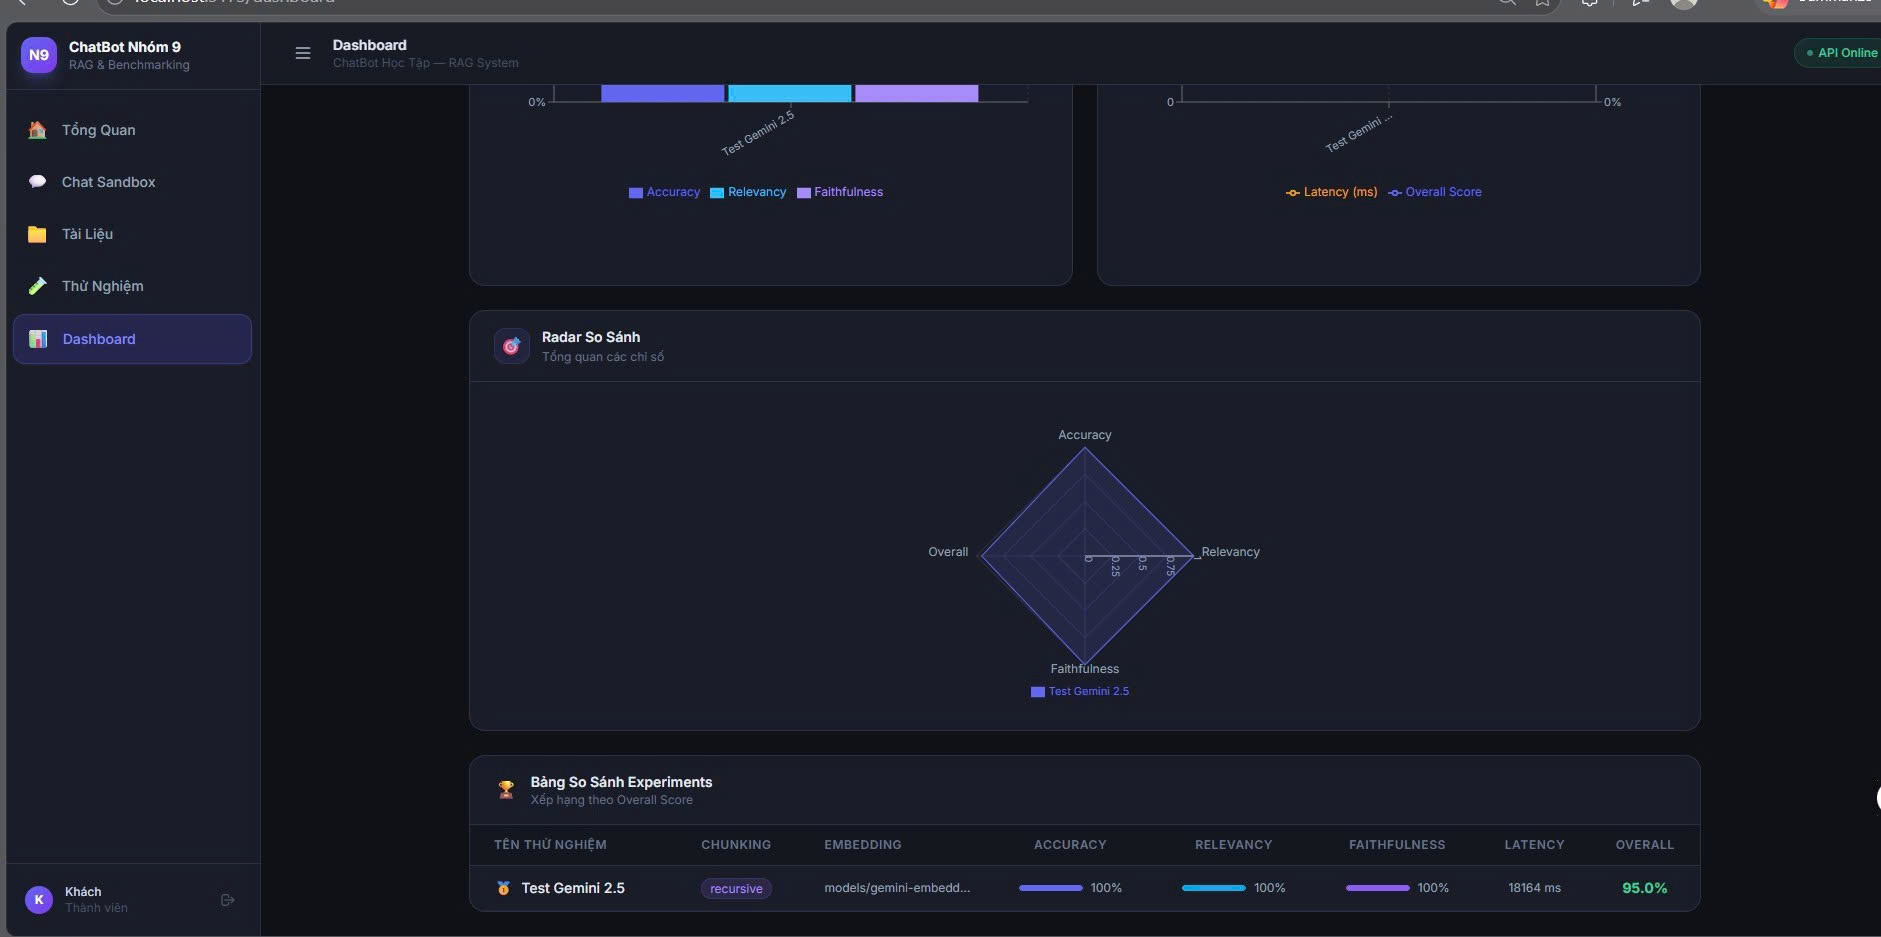
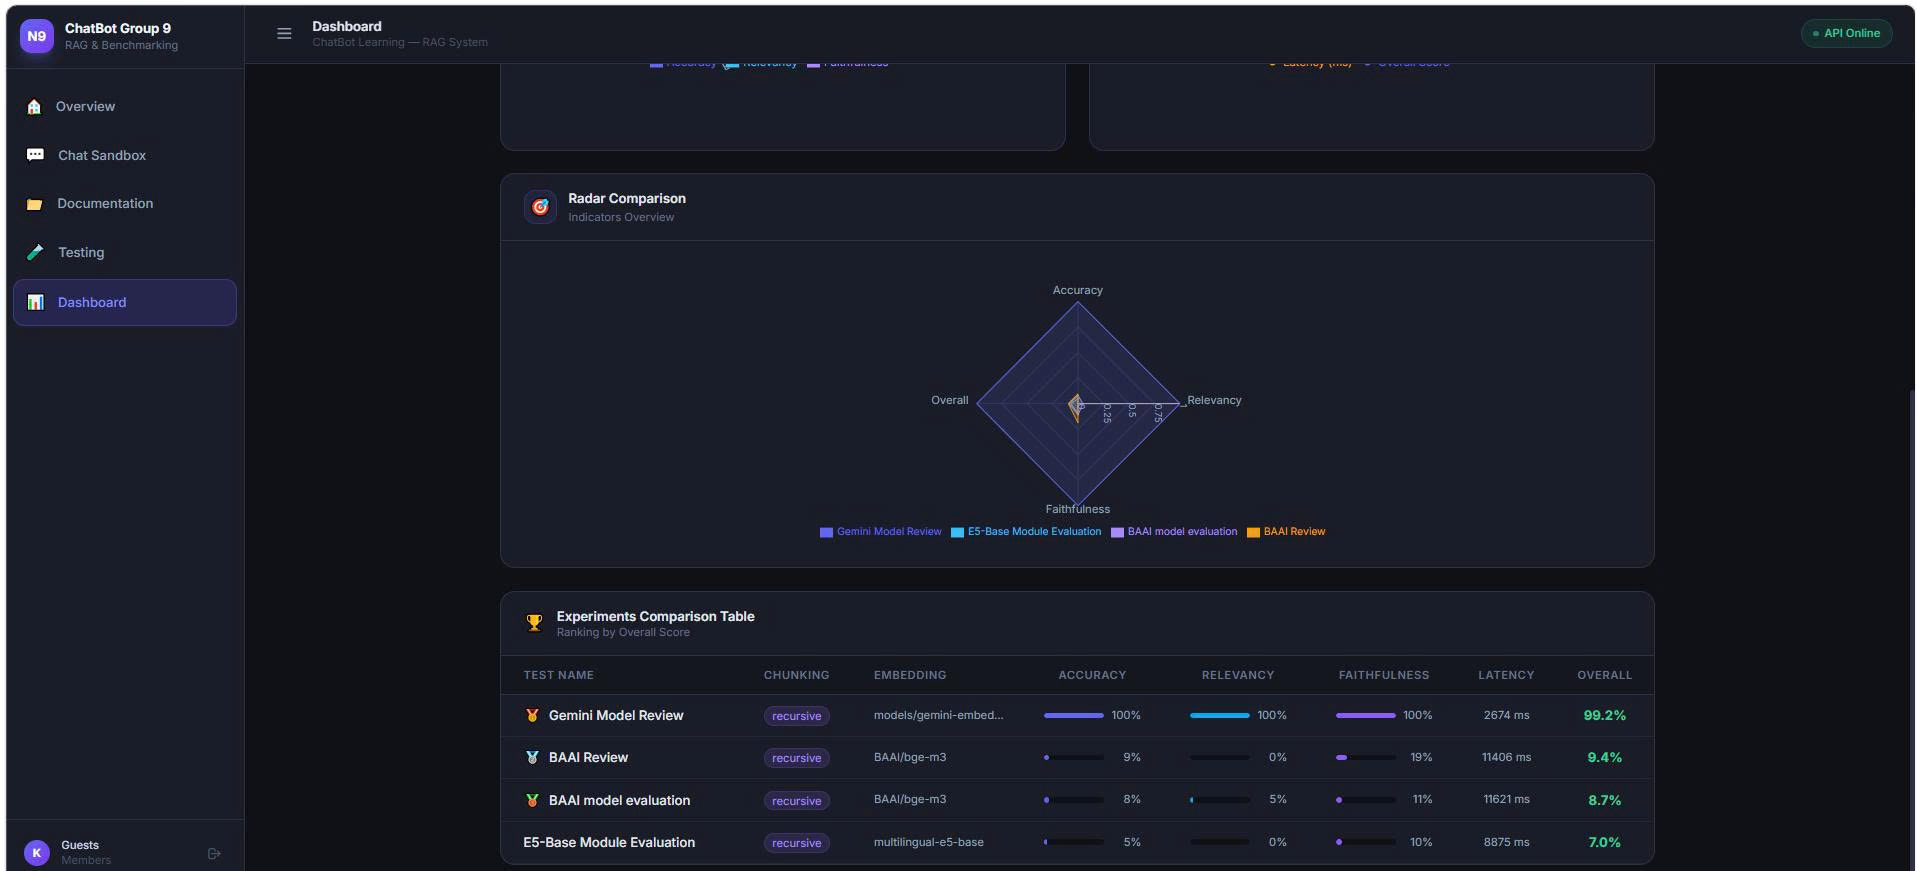
docs: update LaTeX report

diff --git a/BaoCaoLaTex/chapters/07_KiemThu.tex b/BaoCaoLaTex/chapters/07_KiemThu.tex
@@ -21,83 +21,56 @@ Kết quả cho thấy các chức năng đều hoạt động ổn định và 
 \begin{figure}[H]
 	\centering
 	\includegraphics[width=\textwidth]{images/test_3}
-	\caption{Chạy Benchmark}
+	\caption{Danh Sách Các Thử Nghiệm (Testing Benchmark)}
 	\label{fig:benchmark}
 \end{figure}
-Module Benchmark cho phép cấu hình:
 
+Quy mô thử nghiệm: Hình ảnh cho thấy hệ thống đang thiết lập giới hạn kiểm thử ở mức 20 câu hỏi ngẫu nhiên (trích xuất từ tập testset.json) cho mỗi lần chạy Benchmark.
+Các mô hình đánh giá: Giao diện hiển thị danh sách 4 thử nghiệm đã được thực hiện thành công (trạng thái "Finish"), bao gồm:
 \begin{itemize}
-	\item Chunking Strategy
-	\item Embedding Model
-	\item AI Model
-	\item Bộ câu hỏi kiểm thử
+	\item BAAI Review: Sử dụng mô hình nhúng BAAI/bge-m3 kết hợp gemini-2.5-flash.
+	\item E5-Base Module Evaluation: Sử dụng mô hình nhúng multilingual-e5-base kết hợp gemini-2.5-flash.
+	\item Gemini Model Review: Sử dụng giải pháp đồng bộ với mô hình nhúng models/gemini-embedding-2 kết hợp gemini-2.5-flash.
+	content...
 \end{itemize}
 
-Sau khi chạy Benchmark, hệ thống tự động tính toán các chỉ số:
+Đánh giá chung: Hệ thống Benchmark hoạt động trơn tru, các thuật toán chia nhỏ dữ liệu (recursive) và pipeline đánh giá đều hoàn tất mà không gặp lỗi. Điều này cho phép tạo ra một bộ dữ liệu đối chiếu công bằng giữa các thuật toán Embedding.
 
-\begin{itemize}
-	\item Accuracy
-	\item Relevancy
-	\item Faithfulness
-	\item Latency
-	\item Overall Score
-\end{itemize}
-
-Nhờ đó nhóm có thể đánh giá khách quan chất lượng của từng cấu hình RAG.
-\section{Dashboard thống kê}
+\section{Tổng Quan Hiệu Suất Và Biểu Đồ So Sánh (Dashboard Metrics)}
 
 Sau khi hoàn thành Benchmark, toàn bộ kết quả được tổng hợp lên Dashboard.
 
 \begin{figure}[H]
 	\centering
 	\includegraphics[width=\textwidth]{images/test_4}
-	\caption{Dashboard tổng quan}
+	\caption{Tổng Quan Hiệu Suất Và Biểu Đồ So Sánh (Dashboard Metrics)}
 	\label{fig:dashboard}
 \end{figure}
-Dashboard hiển thị các chỉ số:
 
-\begin{itemize}
-	\item Số lượng tài liệu
-	\item Số lượng câu hỏi
-	\item Accuracy
-	\item Relevancy
-	\item Faithfulness
-	\item Latency
-\end{itemize}
+Chỉ số hệ thống tổng thể: Dữ liệu RAG hiện tại được nạp từ 5 tài liệu, đã thực hiện kiểm tra với 29 câu hỏi. Trung bình trên toàn bộ hệ thống, thời gian phản hồi (TB Time) lên tới 54.40 giây, cùng các chỉ số chất lượng khá thấp: Accuracy TB (24.3%), Relevancy TB (20.1%) và Faithfulness TB (28.4%). Tuy nhiên, các chỉ số trung bình bị kéo xuống do sự yếu kém của một số mô hình cụ thể.
 
-Ngoài các chỉ số tổng quan, hệ thống còn hiển thị biểu đồ so sánh giúp người dùng dễ dàng quan sát sự khác biệt giữa các lần Benchmark.
+Biểu đồ Compare Metrics (Cột): Quan sát trực quan cho thấy thử nghiệm "Gemini Model Review" (cột ngoài cùng bên trái) áp đảo hoàn toàn với 3 thanh màu vươn tới mức 100% cho cả Accuracy, Relevancy và Faithfulness. Trong khi đó, các thử nghiệm dùng mô hình BAAI hay E5-Base đều có các chỉ số này nằm sát đáy (dưới 10%).
 
-\section{So sánh kết quả Benchmark}
+Biểu đồ Latency và Overall Score (Đường): Đường màu vàng (Overall Score) của mô hình Gemini đạt đỉnh ở mốc 100%, trong khi đường màu xanh (Latency - độ trễ) ở mức thấp nhất. Ngược lại, các mô hình còn lại có điểm tổng thể cực thấp nhưng thời gian phản hồi (Latency) lại vọt lên rất cao, cho thấy sự kém hiệu quả trong cả tốc độ lẫn chất lượng.
+
+\section{Đánh Giá Chi Tiết Từng Mô Hình (Radar và Comparison Table)}
 
 \begin{figure}[H]
 	\centering
 	\includegraphics[width=\textwidth]{images/test_5}
-	\caption{Biểu đồ Radar và bảng xếp hạng}
+	\caption{Đánh Giá Chi Tiết Từng Mô Hình (Radar và Comparison Table)}
 	\label{fig:radar}
 \end{figure}
-Radar Chart được sử dụng để trực quan hóa các chỉ số:
 
-\begin{itemize}
-	\item Accuracy
-	\item Relevancy
-	\item Faithfulness
-	\item Overall Score
-\end{itemize}
+Biểu đồ Radar Comparison: Khẳng định lại sự vượt trội tuyệt đối của Gemini Model Review khi vùng đa giác bao phủ toàn bộ giới hạn cao nhất của biểu đồ (Accuracy, Relevancy, Faithfulness và Overall). Các mô hình khác gần như tụt lại ở tâm biểu đồ, cho thấy sự mất cân đối nghiêm trọng về khả năng trích xuất thông tin đúng ngữ cảnh.
 
-Bảng xếp hạng bên dưới hiển thị đầy đủ:
+Bảng xếp hạng chi tiết (Experiments Comparison Table):
+Vị trí Số 1 (Gemini Model Review): Đạt 100% ở mọi tiêu chí đánh giá chất lượng câu trả lời. Đặc biệt, tốc độ phản hồi vô cùng ấn tượng, chỉ mất 2,674 ms (gần 2.7 giây), đạt điểm tổng thể 99.2%.
 
-\begin{itemize}
-	\item Tên thử nghiệm
-	\item Chunking
-	\item Embedding
-	\item Accuracy
-	\item Relevancy
-	\item Faithfulness
-	\item Latency
-	\item Overall Score
-\end{itemize}
+Nhóm xếp sau (BAAI và E5-Base): Kết quả cực kỳ thấp. Điểm số độ liên quan (Relevancy) thậm chí rơi xuống 0%, nghĩa là bộ phận tìm kiếm ngữ nghĩa (Retrieval) của các mô hình này không hoạt động hiệu quả với tập dữ liệu Tiếng Việt hiện tại. Đồng thời, thời gian phản hồi của chúng cũng rất chậm, dao động từ 8,875 ms đến 11,621 ms, dẫn đến điểm tổng thể (Overall) chỉ dao động ở mức 7% - 9%.
 
-Các chỉ số được tính toán tự động sau mỗi lần Benchmark và hỗ trợ nhóm lựa chọn cấu hình tối ưu.
+Kết luận rút ra: Việc sử dụng trọn bộ hệ sinh thái của Google (Gemini Embedding + Gemini LLM) mang lại hiệu quả vượt bậc và sẵn sàng ứng dụng thực tế, trong khi các mô hình Open-source hiện tại cần được fine-tune hoặc cấu hình lại sâu hơn nếu muốn sử dụng.
+
 \section{Đánh giá kết quả}
 
 Sau quá trình kiểm thử, hệ thống đã đáp ứng đầy đủ các yêu cầu chức năng được đặc tả trong tài liệu SRS.